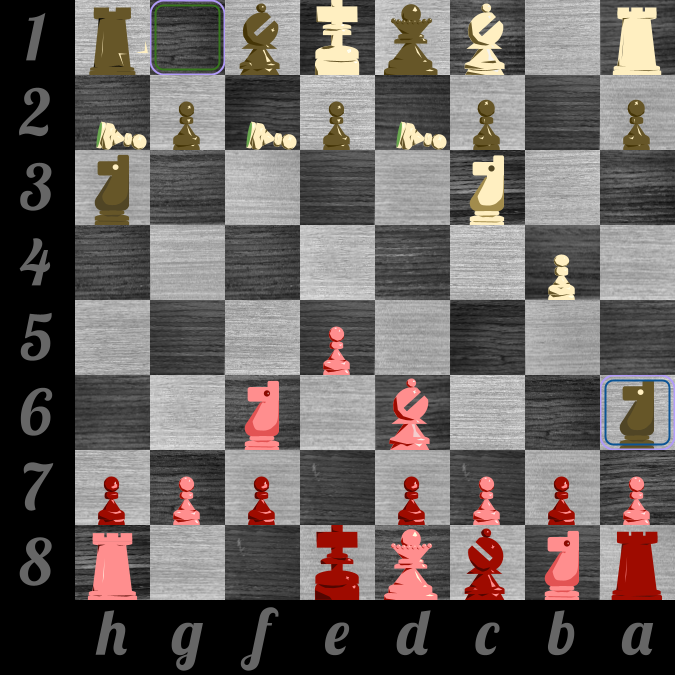
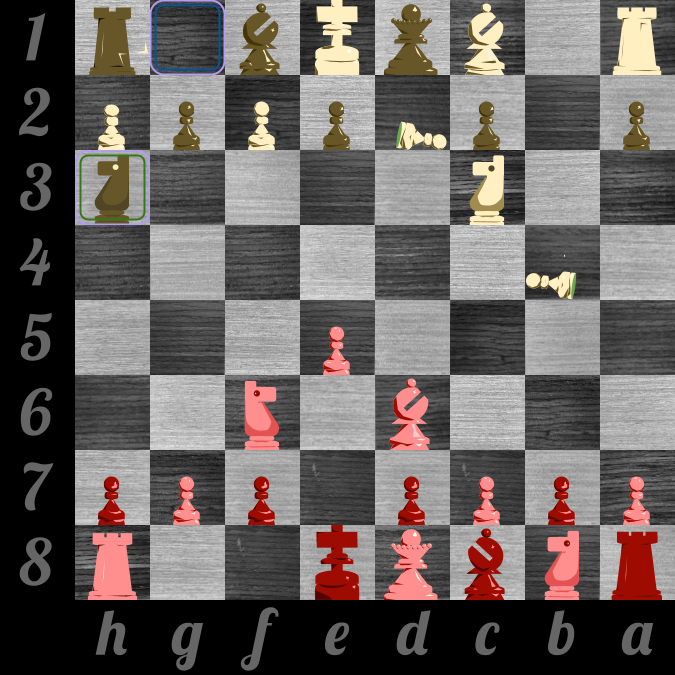
png maybe working in labs

diff --git a/board_factory/src/main.rs b/board_factory/src/main.rs
@@ -599,8 +599,6 @@ fn create_chess_pieces_layer(
             // if to-square is the same as current row and col:
             // if let Some((to_row, to_col)) = adjust_to_png_coords(to) {
 
-
-
             if let Some((to_row, to_col)) = to {
                 if to_row == row && to_col == col {
 
@@ -611,7 +609,7 @@ fn create_chess_pieces_layer(
 
 
                     // if let Some((to_row, to_col)) = adjust_to_png_coords(to) {
-                        if let Some((to_row, to_col)) = to {
+                        // if let Some((to_row, to_col)) = to {
 
                         let to_piece_char = chessboard[to_row][to_col];
                     
@@ -664,7 +662,7 @@ fn create_chess_pieces_layer(
                             img.put_pixel(x_new as u32, y_new as u32, pixel);
                         }
                 }
-                }
+                // }
             }
             }
         }
@@ -705,15 +703,19 @@ fn create_chess_pieces_layer(
                 img.put_pixel(x_new as u32, y_new as u32, pixel);
             }
 
-            dbg!("this piece, piece -> ", piece);
-            dbg!("this piece, to_row -> ", row);
-            dbg!("this piece, to_col -> ", col);
-            dbg!("(input) to -> ", to);
-            dbg!("(input) adjust_to_png_coords(to) -> ", adjust_to_png_coords(to));
+            // dbg!("this piece, piece -> ", piece);
+            // dbg!("this piece, to_row -> ", row);
+            // dbg!("this piece, to_col -> ", col);
+            // dbg!("(input) to -> ", to);
+            // dbg!("(input) adjust_to_png_coords(to) -> ", adjust_to_png_coords(to));
+
+
+            /* To->Here border-box overlay: 
+            this whole huge next section 
+            for just that little line 
+            face palm*/
 
             // if to_square is the same as current iteration row and col:
-            // if let Some((to_row, to_col)) = to {
-
             if let Some((to_row, to_col)) = adjust_to_png_coords(to) {
 
                 if to_row == row && to_col == col {
@@ -775,14 +777,14 @@ fn create_chess_pieces_layer(
                         let piece_image = image::open(Path::new(&temp_image_path))
                             .map_err(|e| io::Error::new(ErrorKind::Other, e))?;
                 
-                        let (x, y) = if !white_orientation {
-                            ((7 - col) * 75, (7 - row) * 75)
-                        } else {
-                            (col * 75, row * 75)
-                        };
+                        // let (x, y) = if !white_orientation {
+                        //     ((7 - col) * 75, (7 - row) * 75)
+                        // } else {
+                        //     (col * 75, row * 75)
+                        // };
                         
 
-                        // let (x, y) = (col * 75, row * 75);
+                        let (x, y) = (col * 75, row * 75);
                 
                         // Overlay the piece image on the correct square
                         for (i, j, pixel) in piece_image.pixels() {
